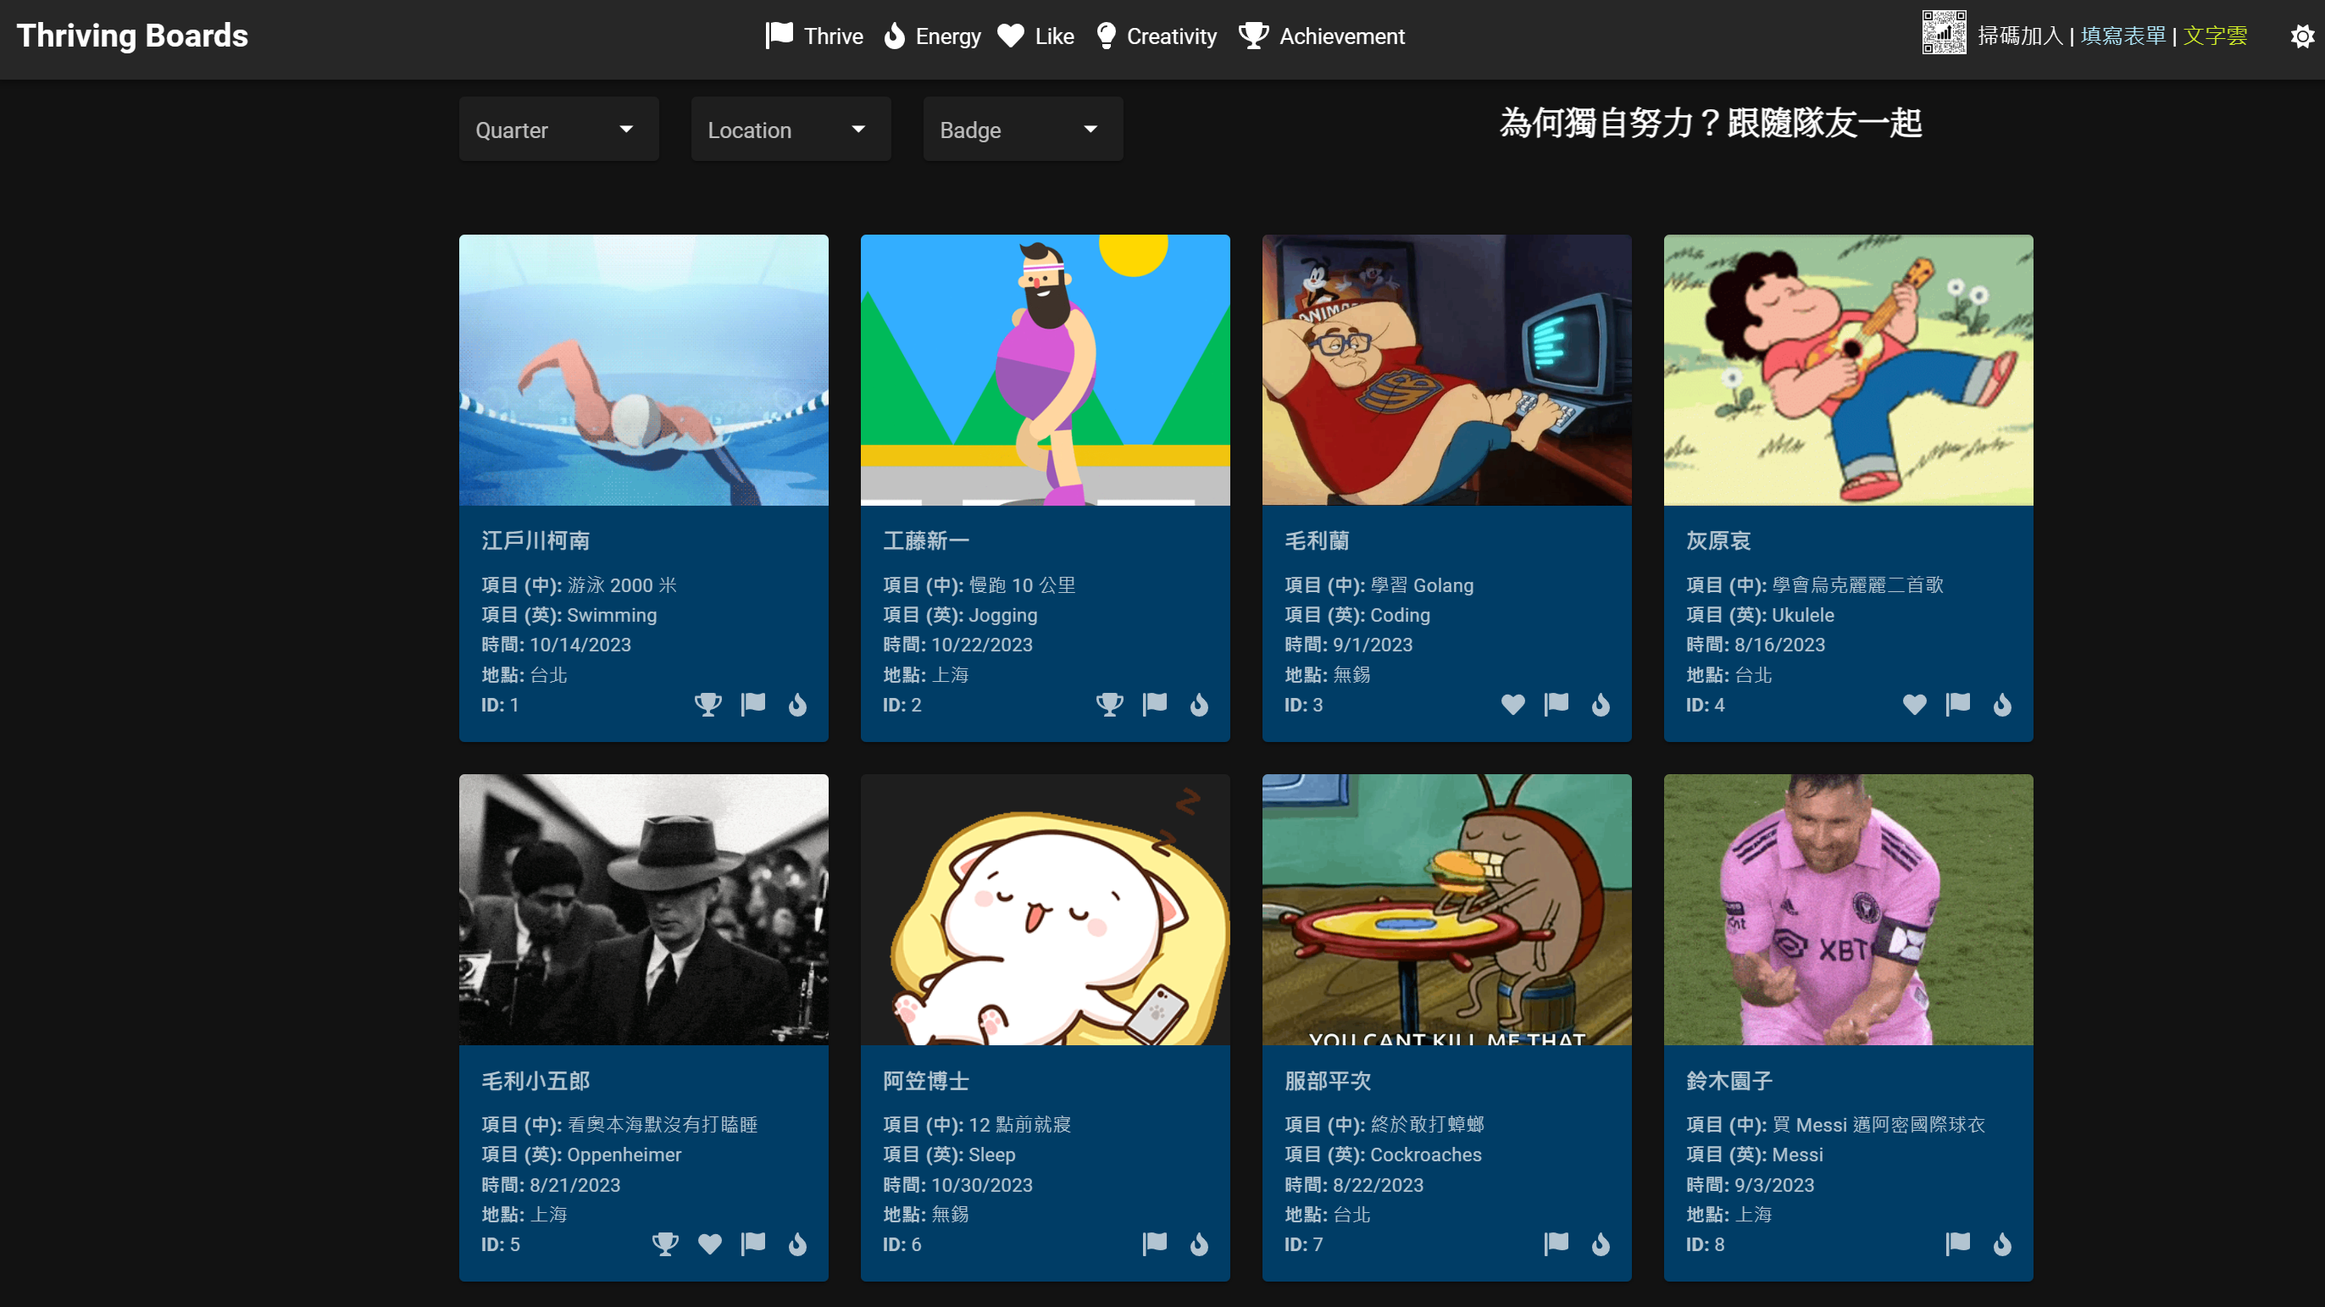
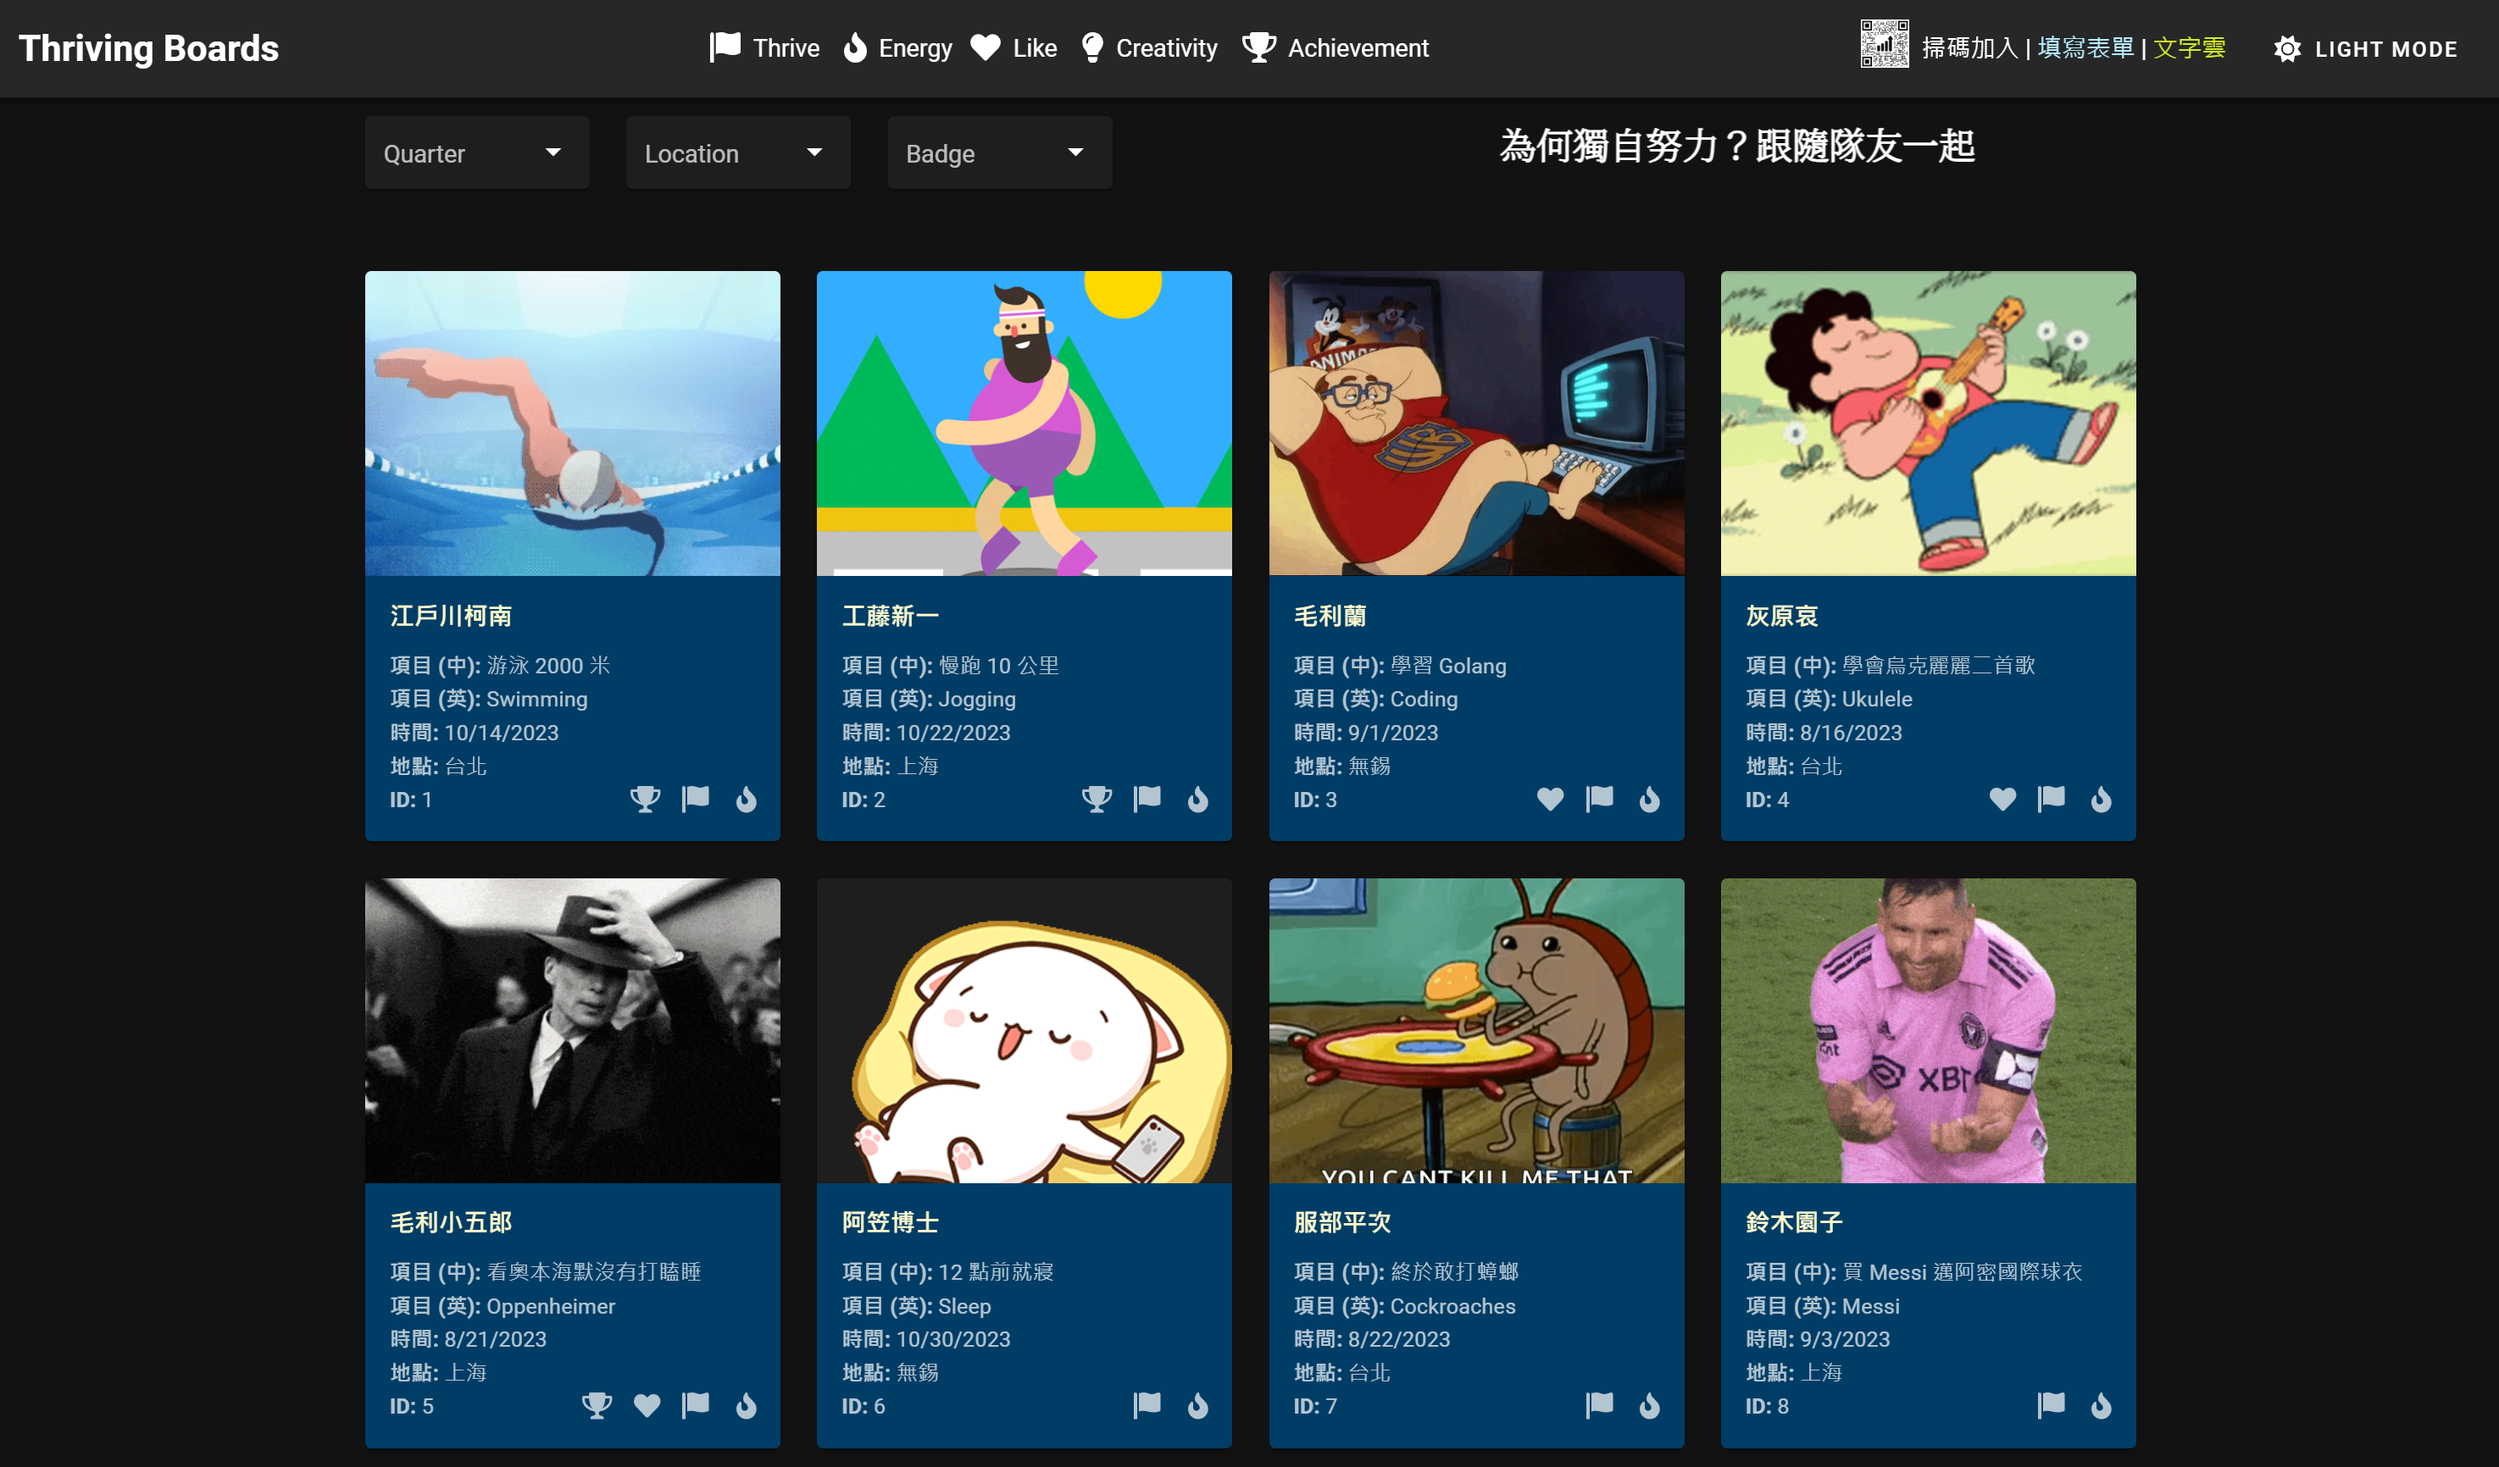
cosmetic fix

diff --git a/src/components/NavBar.vue b/src/components/NavBar.vue
@@ -20,7 +20,7 @@
         },
       }"
     >
-      <span class="ml-2">掃碼加入 |<a href="https://forms.office.com/r/sGY3XpCAQA" target="_blank">&nbsp;填寫表單</a>&nbsp;|&nbsp;<a class="wordcloud" data-fancybox="wordcloud" href="https://charlesstorage1.z7.web.core.windows.net/" target="_blank">文字雲</a>&nbsp;&nbsp;&nbsp;&nbsp;</span>
+      <span class="ml-2">掃碼加入 |<a href="https://forms.office.com/r/sGY3XpCAQA" target="_blank">&nbsp;填寫表單</a>&nbsp;|&nbsp;<a class="wordcloud" data-fancybox="wordcloud" href="https://charleswang.us/thriving/sample/wordcloud.png" target="_blank">文字雲</a>&nbsp;&nbsp;&nbsp;&nbsp;</span>
     </Fancybox>
     <v-btn text @click="darkMode">
       <font-awesome-icon
@@ -52,11 +52,17 @@ export default {
         r.style.setProperty('--bg-color-hover', '#262626');
         r.style.setProperty('--link-color', '#b3ecff');
         r.style.setProperty('--link-wordcloud-color', '#d8f728f4');
+        r.style.setProperty('--card-title-color', 'lemonchiffon');
+        r.style.setProperty('--card-subtitle-color', '#b3ecff');
+        r.style.setProperty('--card-subtitle-weight', 'regular');
       } else {
         r.style.setProperty('--bg-color', '#ffffe6');
         r.style.setProperty('--bg-color-hover', '#ffffb3');
         r.style.setProperty('--link-color', '#004d99');
         r.style.setProperty('--link-wordcloud-color', '#006666');
+        r.style.setProperty('--card-title-color', '#0059b3');
+        r.style.setProperty('--card-subtitle-color', '#000000');
+        r.style.setProperty('--card-subtitle-weight', 'bold');
       }
     },
   },
@@ -69,6 +75,9 @@ export default {
   --bg-color-hover: #262626;
   --link-color: #b3ecff;
   --link-wordcloud-color: #d8f728f4;
+  --card-title-color: lemonchiffon;
+  --card-subtitle-color: #b3ecff;
+  --card-subtitle-weight: 'regular';
 }
 .navbar {
   display: flex;
@@ -112,5 +121,12 @@ a {
 }
 a.wordcloud {
   color: var(--link-wordcloud-color) !important;
+}
+.card_title {
+  color: var(--card-title-color) !important;
+}
+.card_subtitle {
+  color: var(--card-subtitle-color) !important;
+  font-weight: var(--card-subtitle-weight) !important;
 }
 </style>
